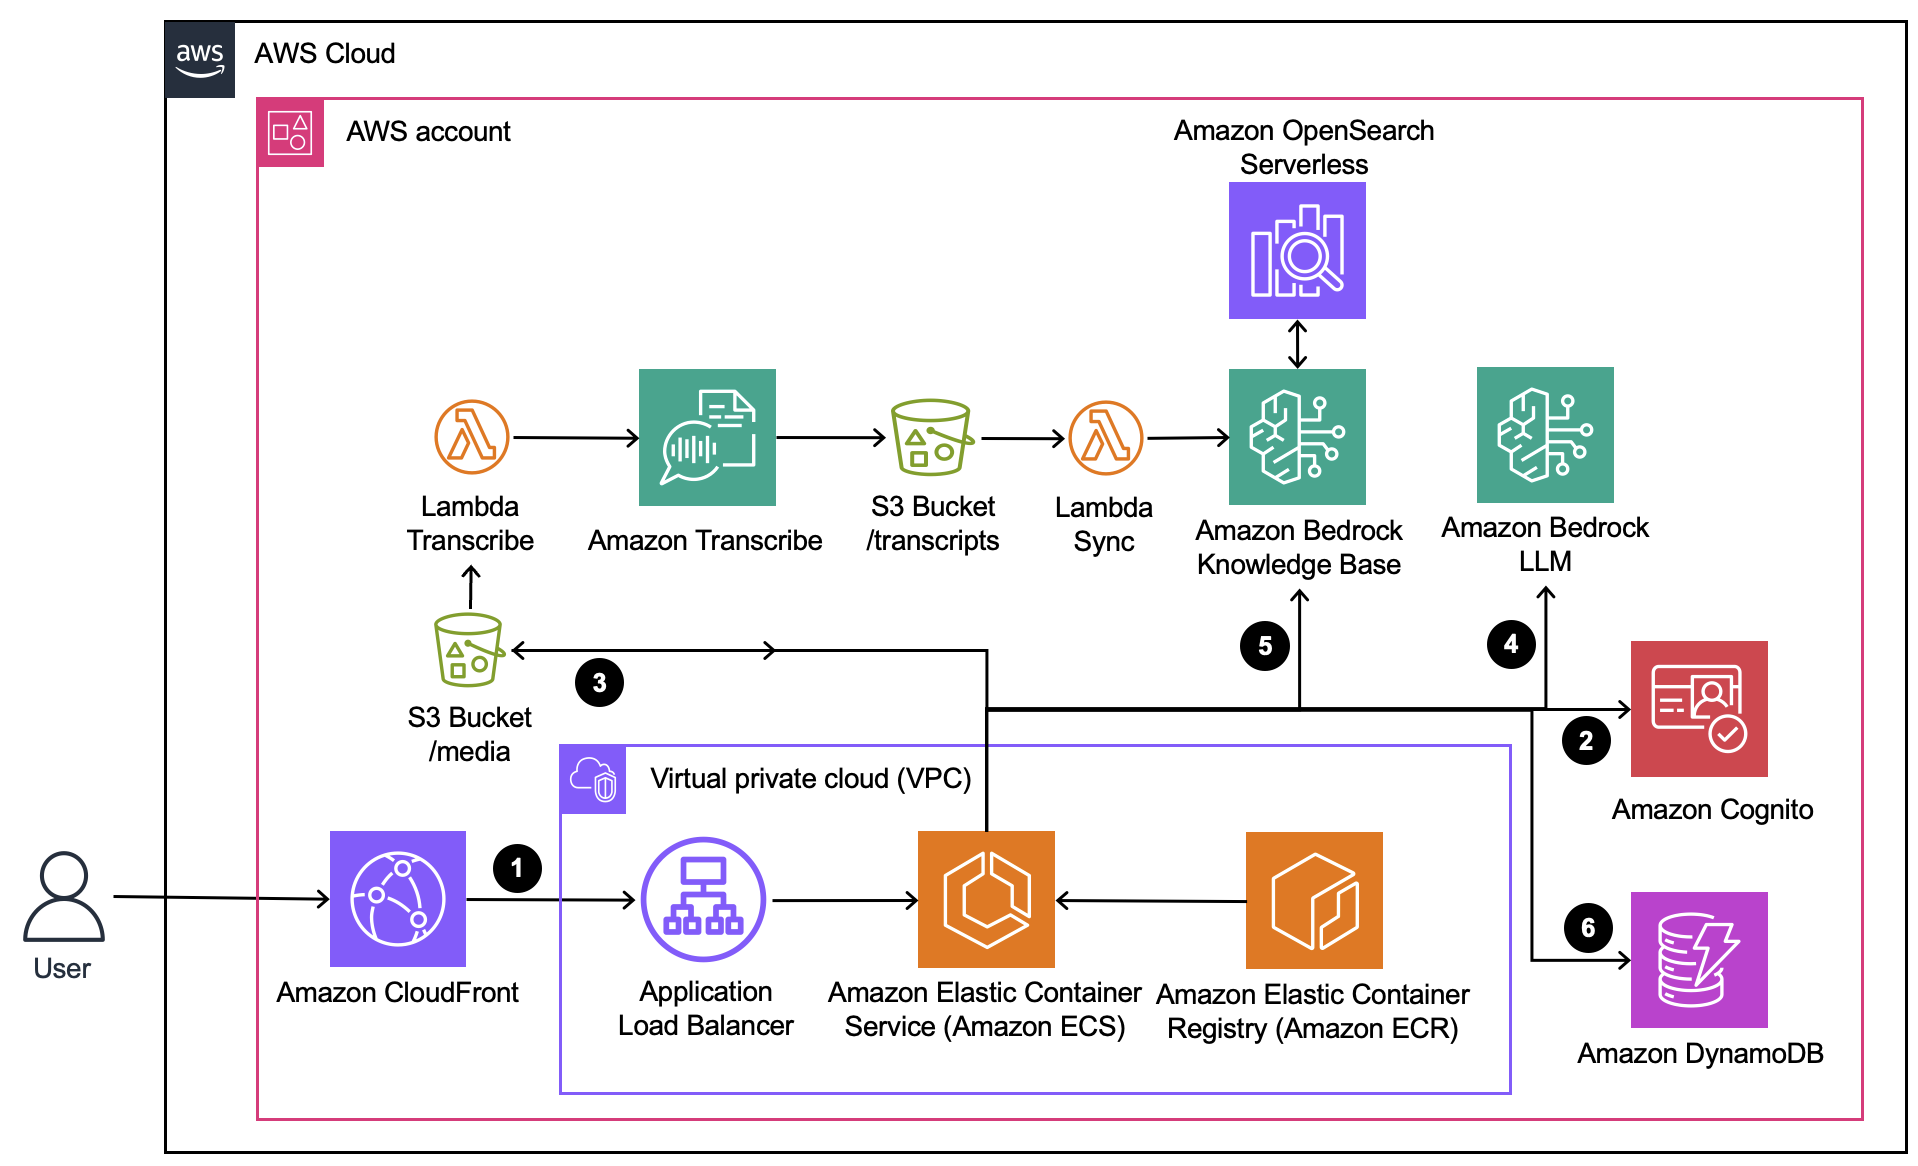
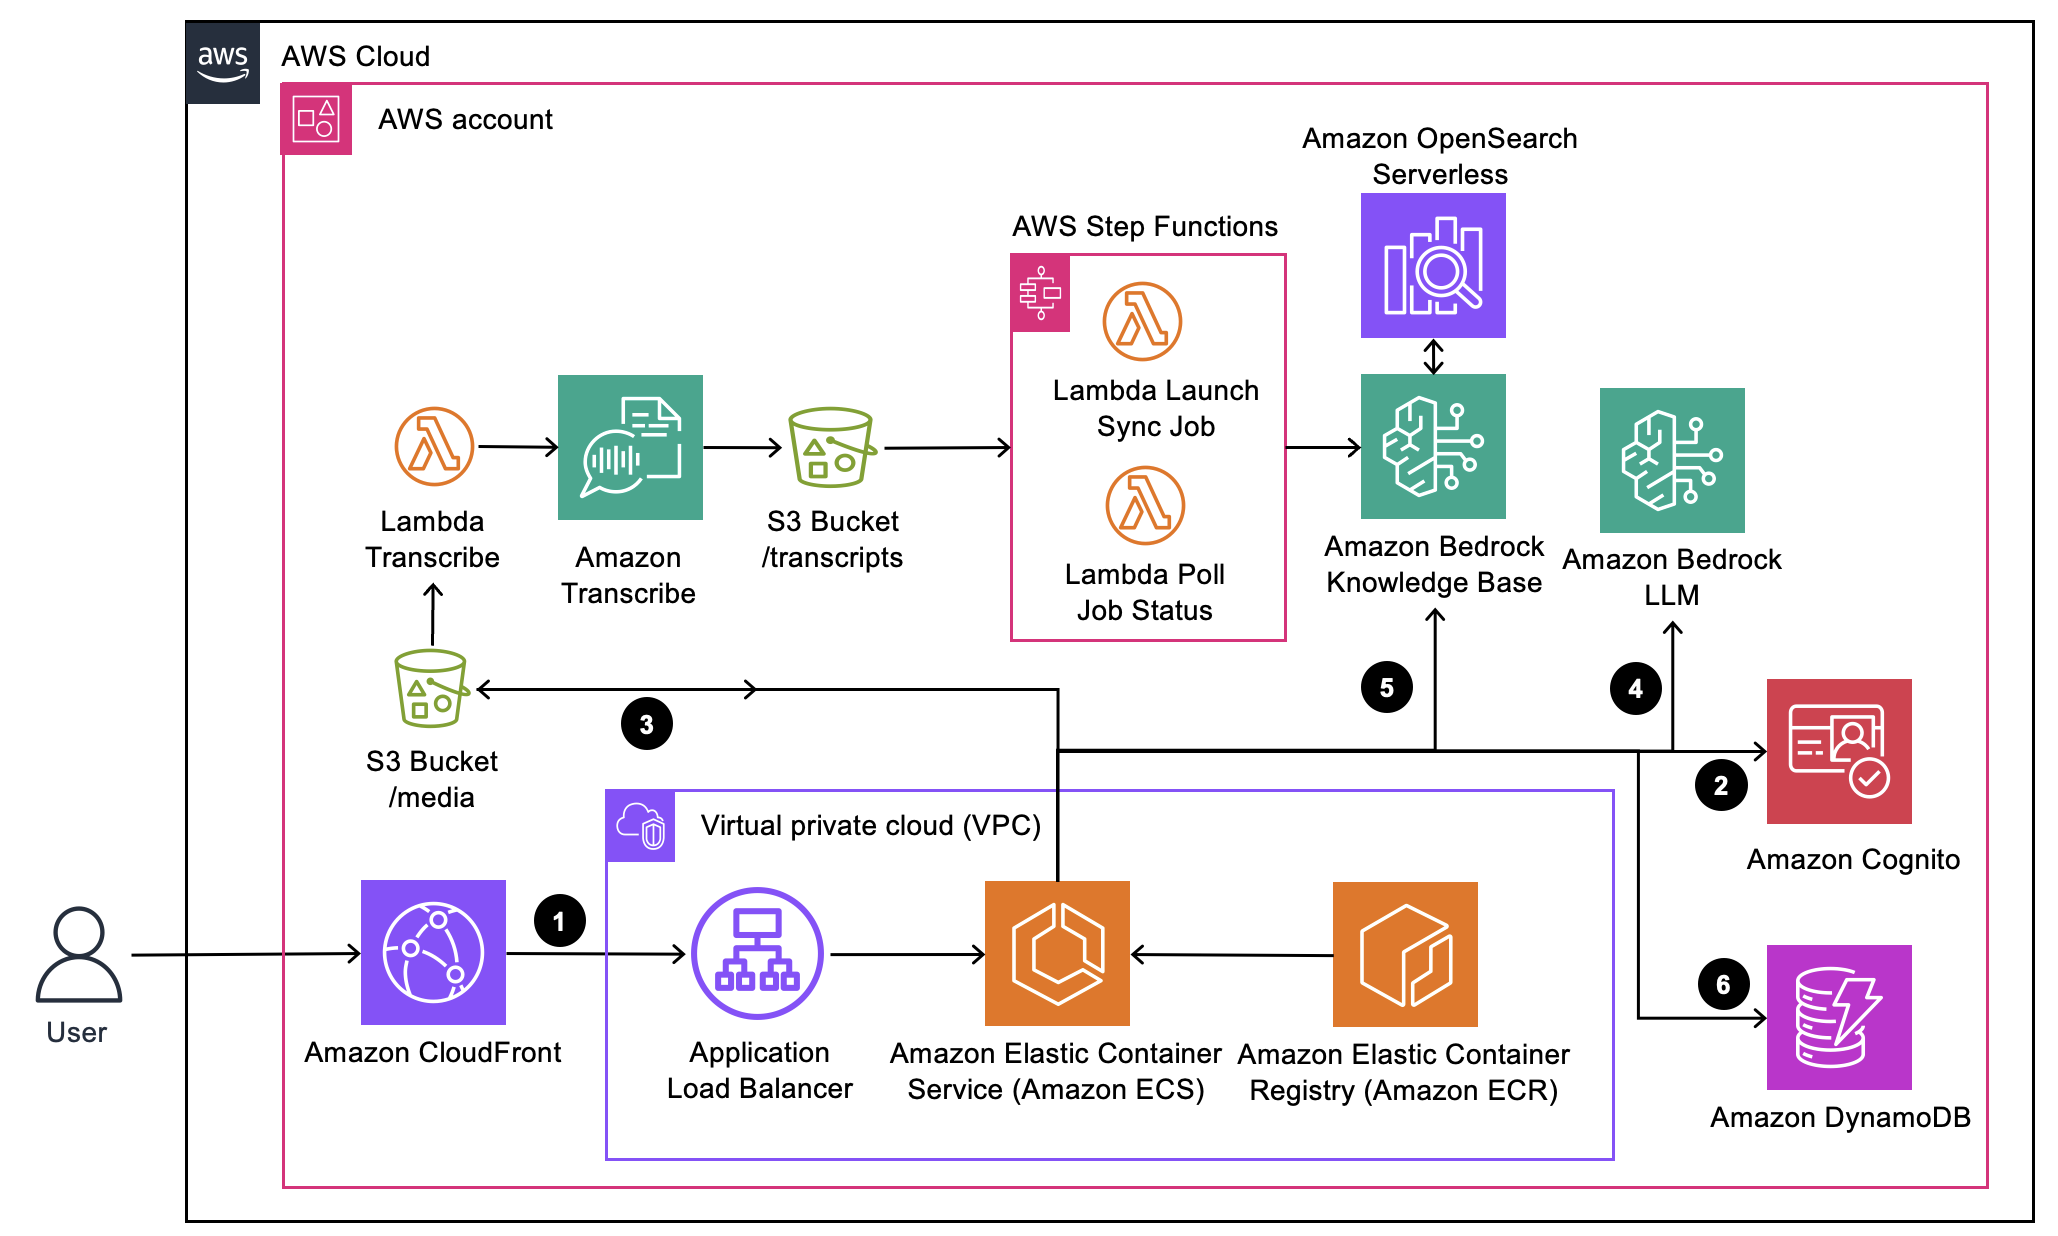
More bug fixes

diff --git a/infra/lambdas/kb/kb-ingest-job-lambda.py b/infra/lambdas/kb/kb-ingest-job-lambda.py
@@ -53,7 +53,7 @@ def lambda_handler(event, context):
     s3_file_key = event["detail"]["object"]["key"]
     logger.debug(f"Ingest lambda {s3_file_key=}")
     username = extract_username_from_s3_URI(s3_file_key)
-    job_id = extract_uuid_from_s3_URI(s3_file_key)
+    ddb_uuid = extract_uuid_from_s3_URI(s3_file_key)
 
     # Retry a few times
     # TODO: handle this better with a queue or something
@@ -67,23 +67,27 @@ def lambda_handler(event, context):
             # Update DDB status
             update_job_status(
                 table=ddb_table,
-                uuid=job_id,
+                uuid=ddb_uuid,
                 username=username,
                 new_status=JobStatus.INDEXING,
             )
+            logger.debug(f"Updated job status for {ddb_uuid=} to Indexing.")
             # Add ingestion job ID to DDB to check ingestion status later
             update_ddb_entry(
                 table=ddb_table,
-                uuid=job_id,
+                uuid=ddb_uuid,
                 username=username,
                 new_item_name="ingestion_job_id",
                 new_item_value=response["ingestionJob"]["ingestionJobId"],
+            )
+            logger.debug(
+                f"Updated DDB entry {ddb_uuid=} by adding an ingestion_job_id field, with value {response['ingestionJob']['ingestionJobId']}."
             )
             # Return the ingestion job ID rather than relying on downstream lambdas to read it from dynamo
             # due to potential consistency issues
             return {
                 "ingestion_job_id": response["ingestionJob"]["ingestionJobId"],
-                "uuid": job_id,
+                "uuid": ddb_uuid,
                 "username": username,
             }
 
@@ -99,11 +103,11 @@ def lambda_handler(event, context):
                 time.sleep(5)
             else:
                 logger.debug(
-                    "Ingestion job failed and no retries left. Marking {uuid=} as Failed."
+                    f"Ingestion job failed and no retries left. Marking {ddb_uuid=} as Failed."
                 )
                 update_job_status(
                     table=ddb_table,
-                    uuid=job_id,
+                    uuid=ddb_uuid,
                     username=username,
                     new_status=JobStatus.FAILED,
                 )

diff --git a/infra/constructs/kb_constructs.py b/infra/constructs/kb_constructs.py
@@ -350,7 +350,7 @@ class ReVIEWKnowledgeBaseSyncConstruct(Construct):
         ingest_lambda = _lambda.Function(
             self,
             self.props["unique_stack_name"] + "-IngestionJob",
-            description="Function for ReVIEW Knowledge Base Ingestion and sync",
+            description="ReVIEW KB Ingestion Job Launch",
             runtime=_lambda.Runtime.PYTHON_3_10,
             handler="kb.kb-ingest-job-lambda.lambda_handler",
             code=_lambda.Code.from_asset("lambdas"),
@@ -403,6 +403,7 @@ class ReVIEWKnowledgeBaseSyncConstruct(Construct):
         return _lambda.Function(
             self,
             f"{self.props['unique_stack_name']}-JobStatusChecker",
+            description="ReVIEW KB Ingestion Job Status Checker",
             runtime=_lambda.Runtime.PYTHON_3_10,
             handler="kb.kb-job-status-lambda.lambda_handler",
             code=_lambda.Code.from_asset("lambdas"),

diff --git a/infra/lambdas/ddb/ddb_utils.py b/infra/lambdas/ddb/ddb_utils.py
@@ -18,6 +18,7 @@ from enum import Enum
 import datetime
 import os
 from typing import Any
+from boto3.dynamodb.conditions import Key
 
 
 class JobStatus(Enum):
@@ -84,12 +85,12 @@ def retrieve_media_name_by_jobid(table, job_id: str, username: str) -> str | Non
 
 def batch_update_job_statuses(table, ingestion_job_id: str, new_status: JobStatus):
     """Scan through table and update status of all rows with ingestion_job_id to new_status"""
+
     response = table.scan(
-        FilterExpression="ingestion_job_id = :job_id",
-        ExpressionAttributeValues={":job_id": ingestion_job_id},
+        FilterExpression=Key("ingestion_job_id").eq(ingestion_job_id),
     )
 
     for item in response["Items"]:
         update_job_status(
-            table, uuid=item["UUID"], username=item["username"], new_status=JobStatus
+            table, uuid=item["UUID"], username=item["username"], new_status=new_status
         )

diff --git a/infra/lambdas/preprocessing/postprocess-transcript-lambda.py b/infra/lambdas/preprocessing/postprocess-transcript-lambda.py
@@ -27,6 +27,7 @@ from ddb.ddb_utils import (
     update_ddb_entry,
     update_job_status,
     retrieve_media_name_by_jobid,
+    JobStatus,
 )
 
 logger = logging.getLogger()
@@ -126,7 +127,7 @@ def lambda_handler(event, context):
             table=ddb_table,
             uuid=uuid,
             username=username,
-            new_status="Failed",
+            new_status=JobStatus.FAILED,
         )
         raise
 
@@ -135,7 +136,7 @@ def lambda_handler(event, context):
         table=ddb_table,
         uuid=uuid,
         username=username,
-        new_status="Transcription Complete",
+        new_status=JobStatus.TRANSCRIPTION_COMPLETE,
     )
 
     return {

diff --git a/infra/lambdas/preprocessing/generate-transcript-lambda.py b/infra/lambdas/preprocessing/generate-transcript-lambda.py
@@ -22,7 +22,7 @@ from urllib.parse import unquote_plus
 
 import boto3
 
-from ddb.ddb_utils import update_job_status, create_ddb_entry
+from ddb.ddb_utils import update_job_status, create_ddb_entry, JobStatus
 from preprocessing.preprocessing_utils import extract_username_from_s3_URI
 
 
@@ -117,7 +117,7 @@ def lambda_handler(event, context):
         table=ddb_table,
         uuid=job_name,
         username=username,
-        new_status="Transcribing",
+        new_status=JobStatus.TRANSCRIBING,
     )
     return {
         "statusCode": 200,

diff --git a/README.md b/README.md
@@ -44,7 +44,7 @@ Here is an overview of the architecture for the solution.
 
 * **(1)** Users connect to a CloudFront distribution which forwards traffic to the application load balancer via HTTPS with a custom header. 
 * **(2)** The containerized Streamlit application running in ECS connects to Amazon Cognito to authenticate users. 
-* **(3)** Users upload media files to an S3 bucket, which are then transcribed with a lambda function. Once transcripts are created in s3, another lambda syncs the transcripts with a Bedrock Knowledge Base, which handles chunking, embedding, and later retrieval. 
+* **(3)** Users upload media files to an S3 bucket, which are then transcribed with a lambda function. Once transcripts are created in s3, an EventBridge notification triggers an AWS Step Functions workflow to (asynchronously) sync the transcripts (and track the sync job status) with a Bedrock Knowledge Base, which handles chunking, embedding, and later retrieval. 
 * **(4)** The application functionality leverages Large Language Models in Bedrock to analyze transcripts (or chunks of transcripts retrieved from the knowledge base **(5)**) and identify timestamps at which to replay media to the users. 
 * **(6)** DynamoDB is used to track job processing statuses and cache previous LLM responses.
 
